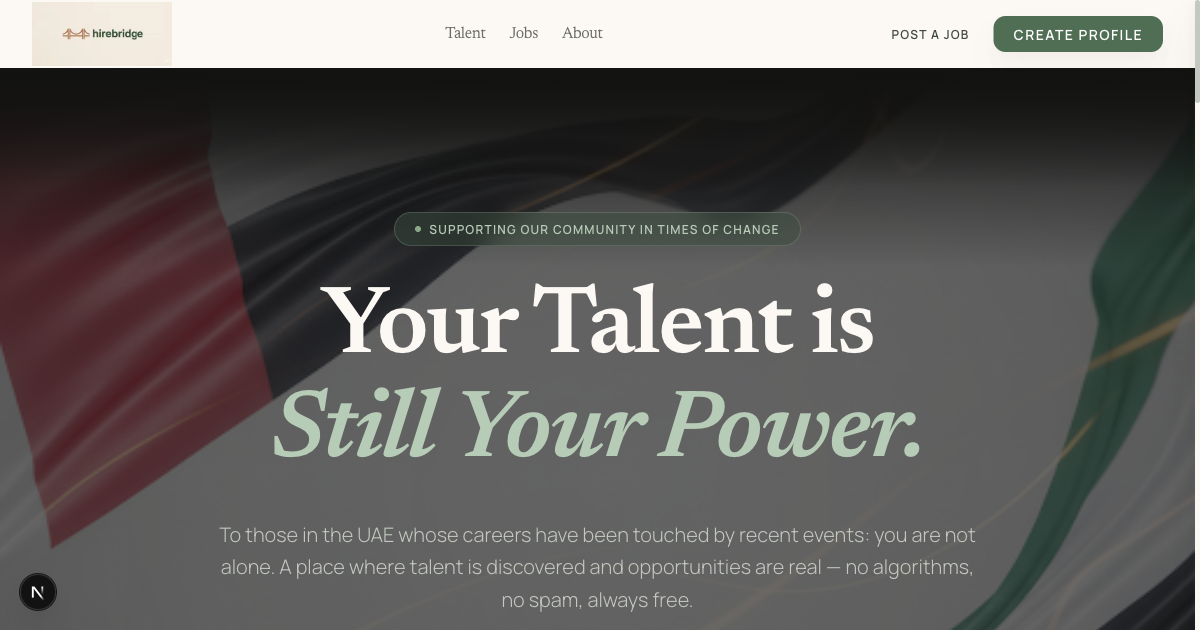
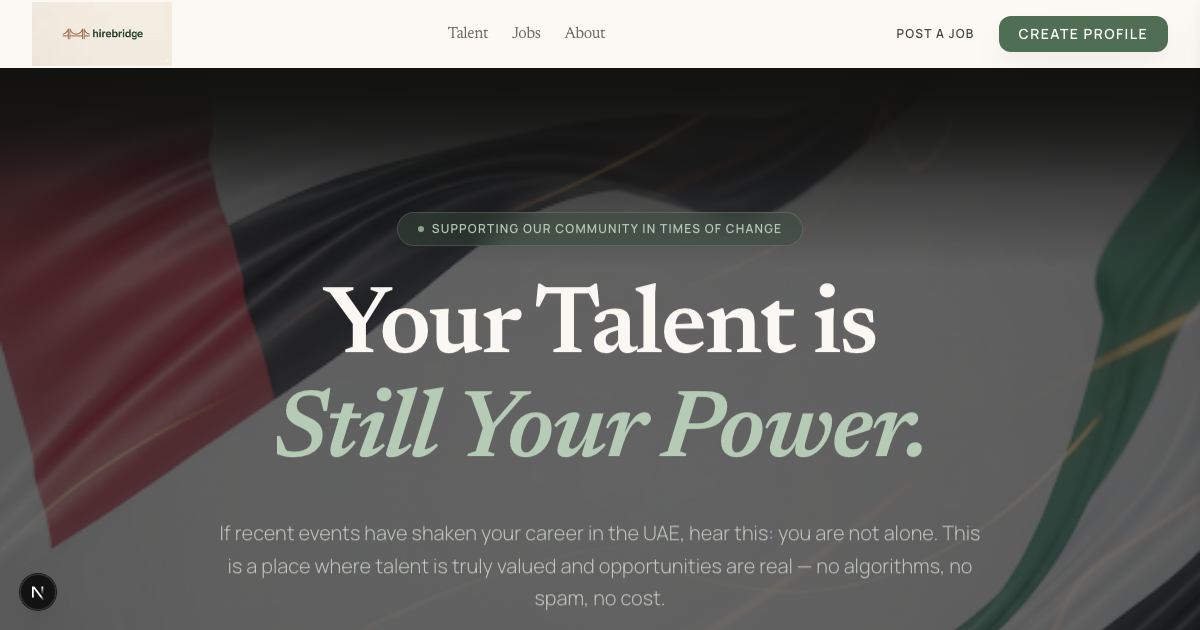
feat(seo): retake og-image with updated hero copy

diff --git a/CHANGELOG.md b/CHANGELOG.md
@@ -9,7 +9,7 @@ The format is based on [Keep a Changelog](https://keepachangelog.com/en/1.1.0/).
 ### Changed
 - **Homepage hero subheading** — updated to "If recent events have shaken your career in the UAE, hear this: you're not alone. This is a place where talent is truly valued and opportunities are real — no algorithms, no spam, no cost."
 - **Removed all political framing** — replaced "The ongoing conflict in the Middle East" on the About page and "regional conflict" in `llms.txt` with neutral "recent events" language; platform remains apolitical
-- **OG image replaced with real homepage screenshot** — removed dynamic `opengraph-image.tsx` generator; replaced with a static `public/og-image.png` (1200×630 Playwright screenshot of the live homepage); `layout.tsx` now explicitly sets `og:image` and `twitter:image` to this file
+- **OG image replaced with real homepage screenshot** — retaken at 1200×630 to reflect latest copy — removed dynamic `opengraph-image.tsx` generator; replaced with a static `public/og-image.png` (1200×630 Playwright screenshot of the live homepage); `layout.tsx` now explicitly sets `og:image` and `twitter:image` to this file
 
 ### Fixed
 - **Umami analytics events not recorded for UAE visitors** — UAE ISPs (e& / du) use deep packet inspection that matches on `/stats/api/send` URL patterns and Umami's JSON payload shape. Replaced the client-side Next.js rewrite for event collection with a server-side Next.js API route (`src/app/api/send/route.ts`) that receives events from the browser and forwards them to Umami from the server, preserving the user's real IP via `X-Forwarded-For` for accurate geo attribution. Also renamed the script proxy path from `/stats/script.js` to `/lib/app.js` to avoid URL pattern matching on "stats".
